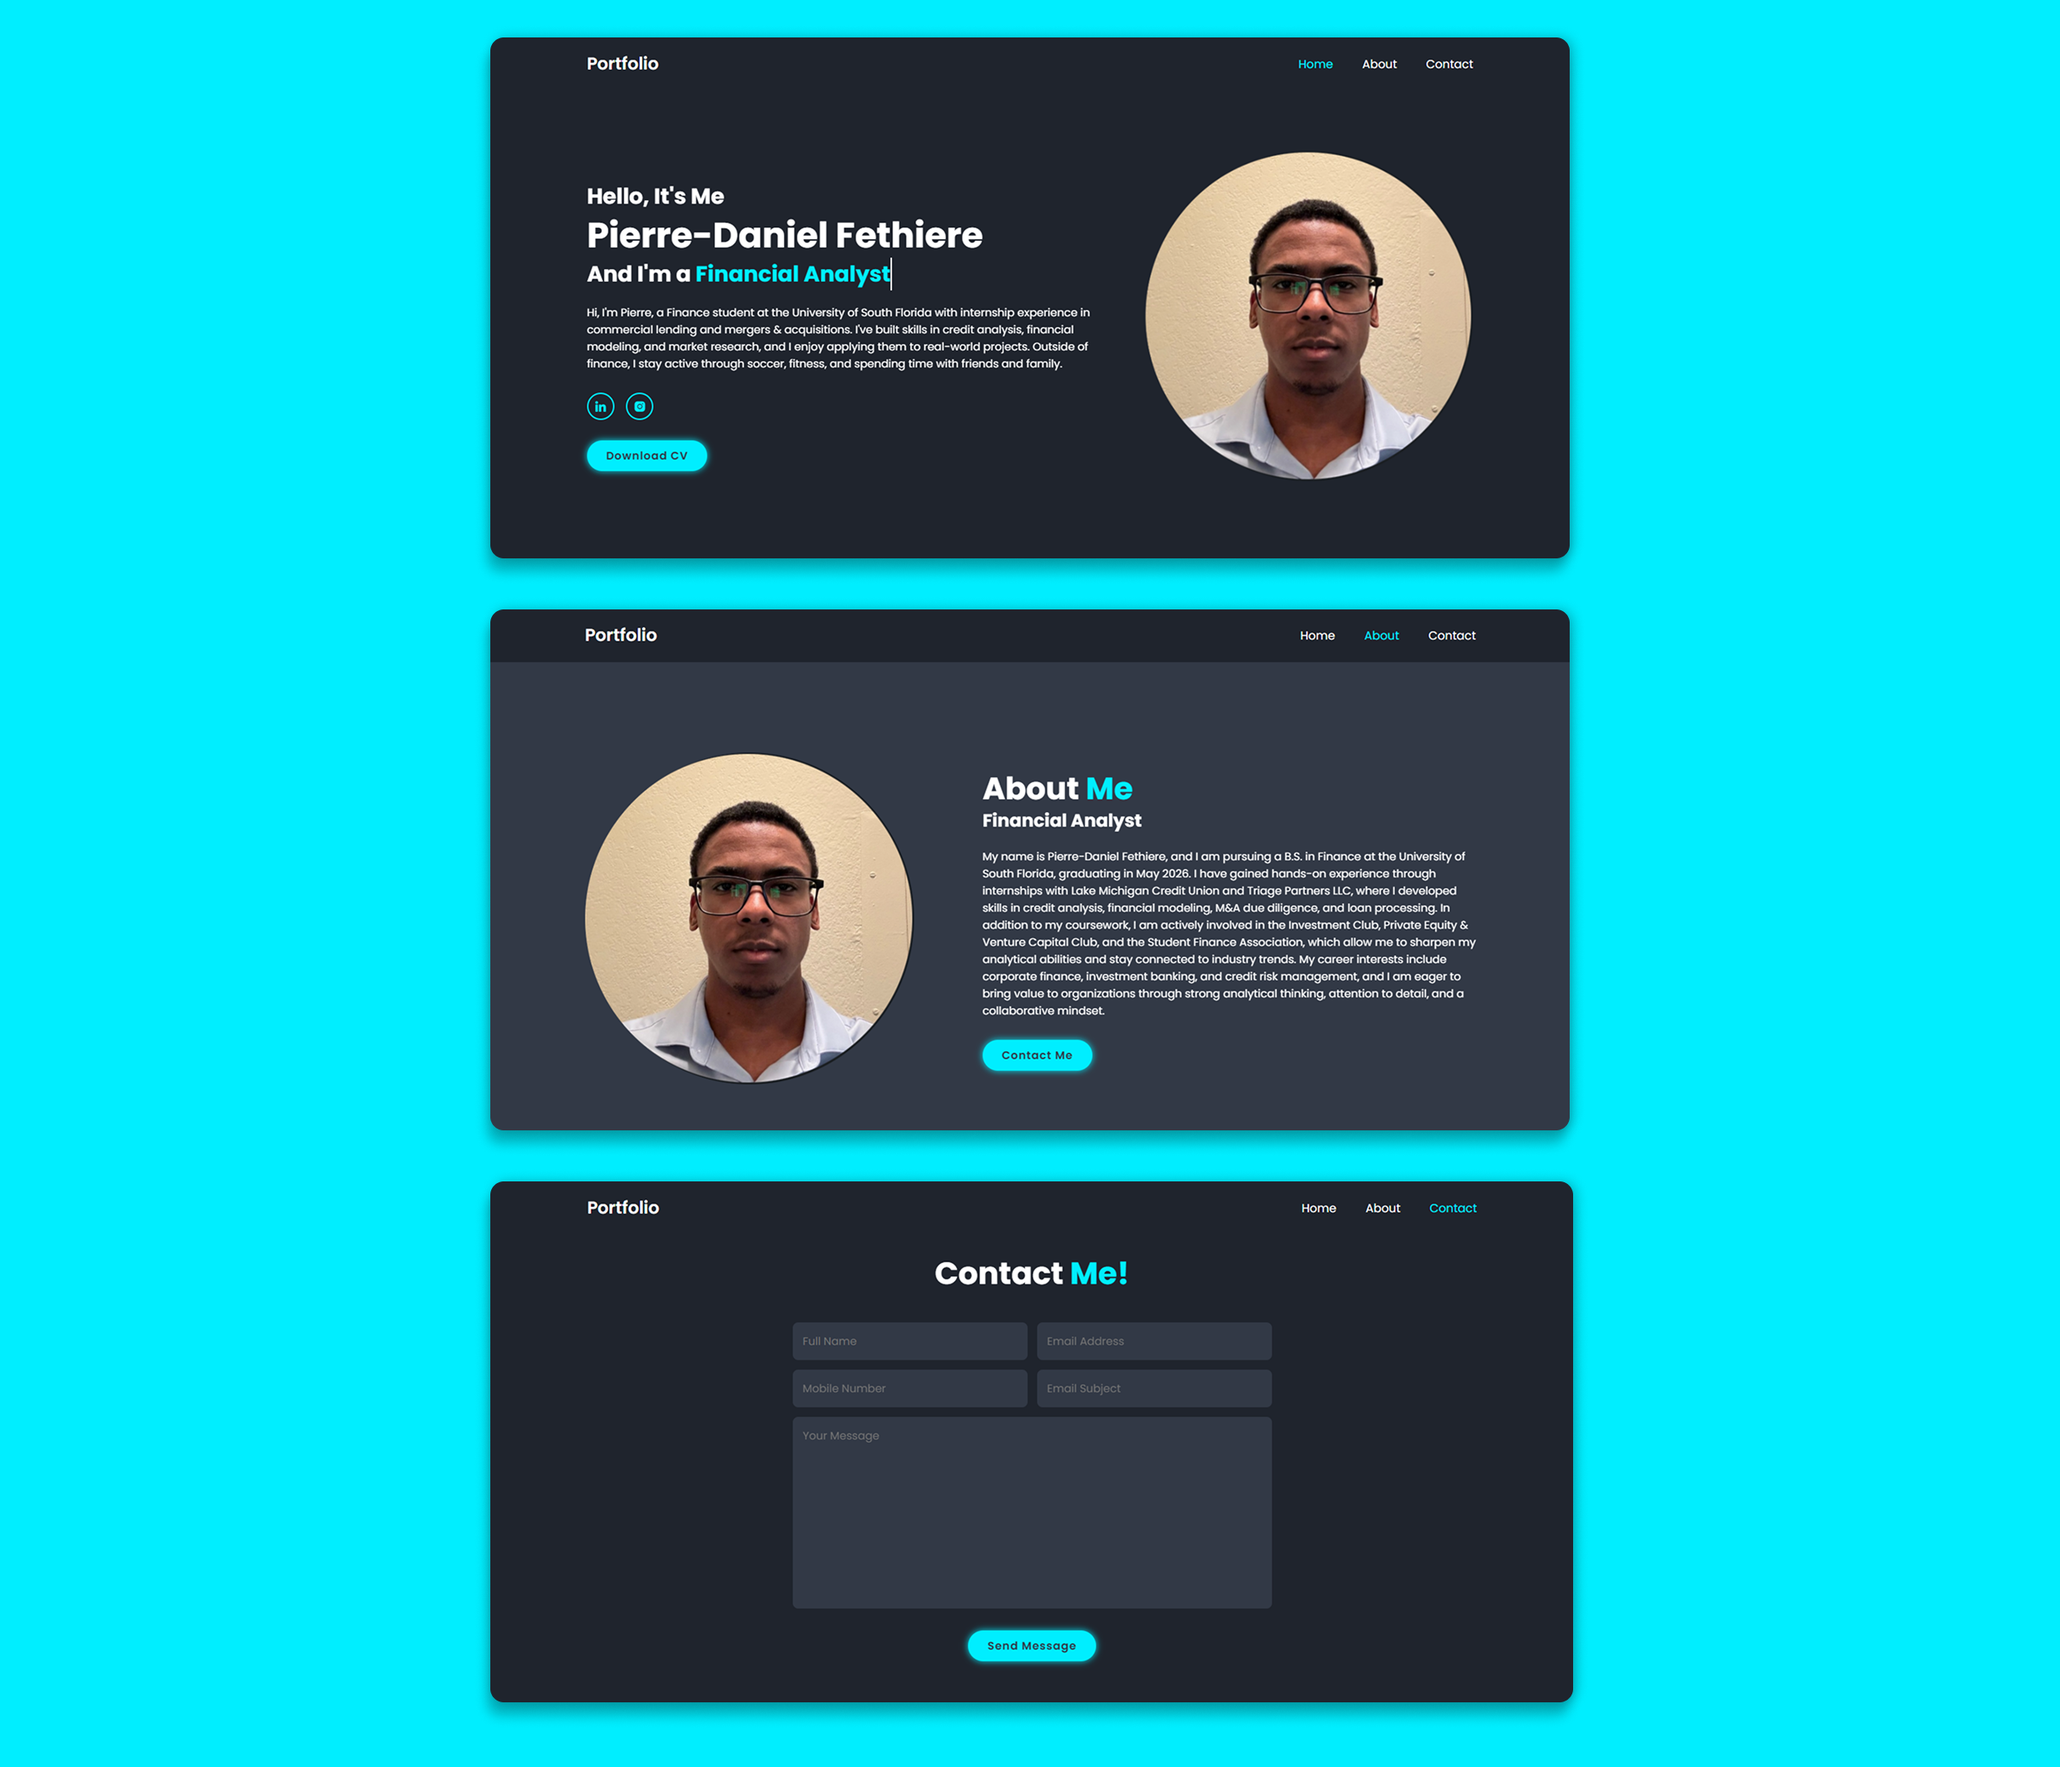
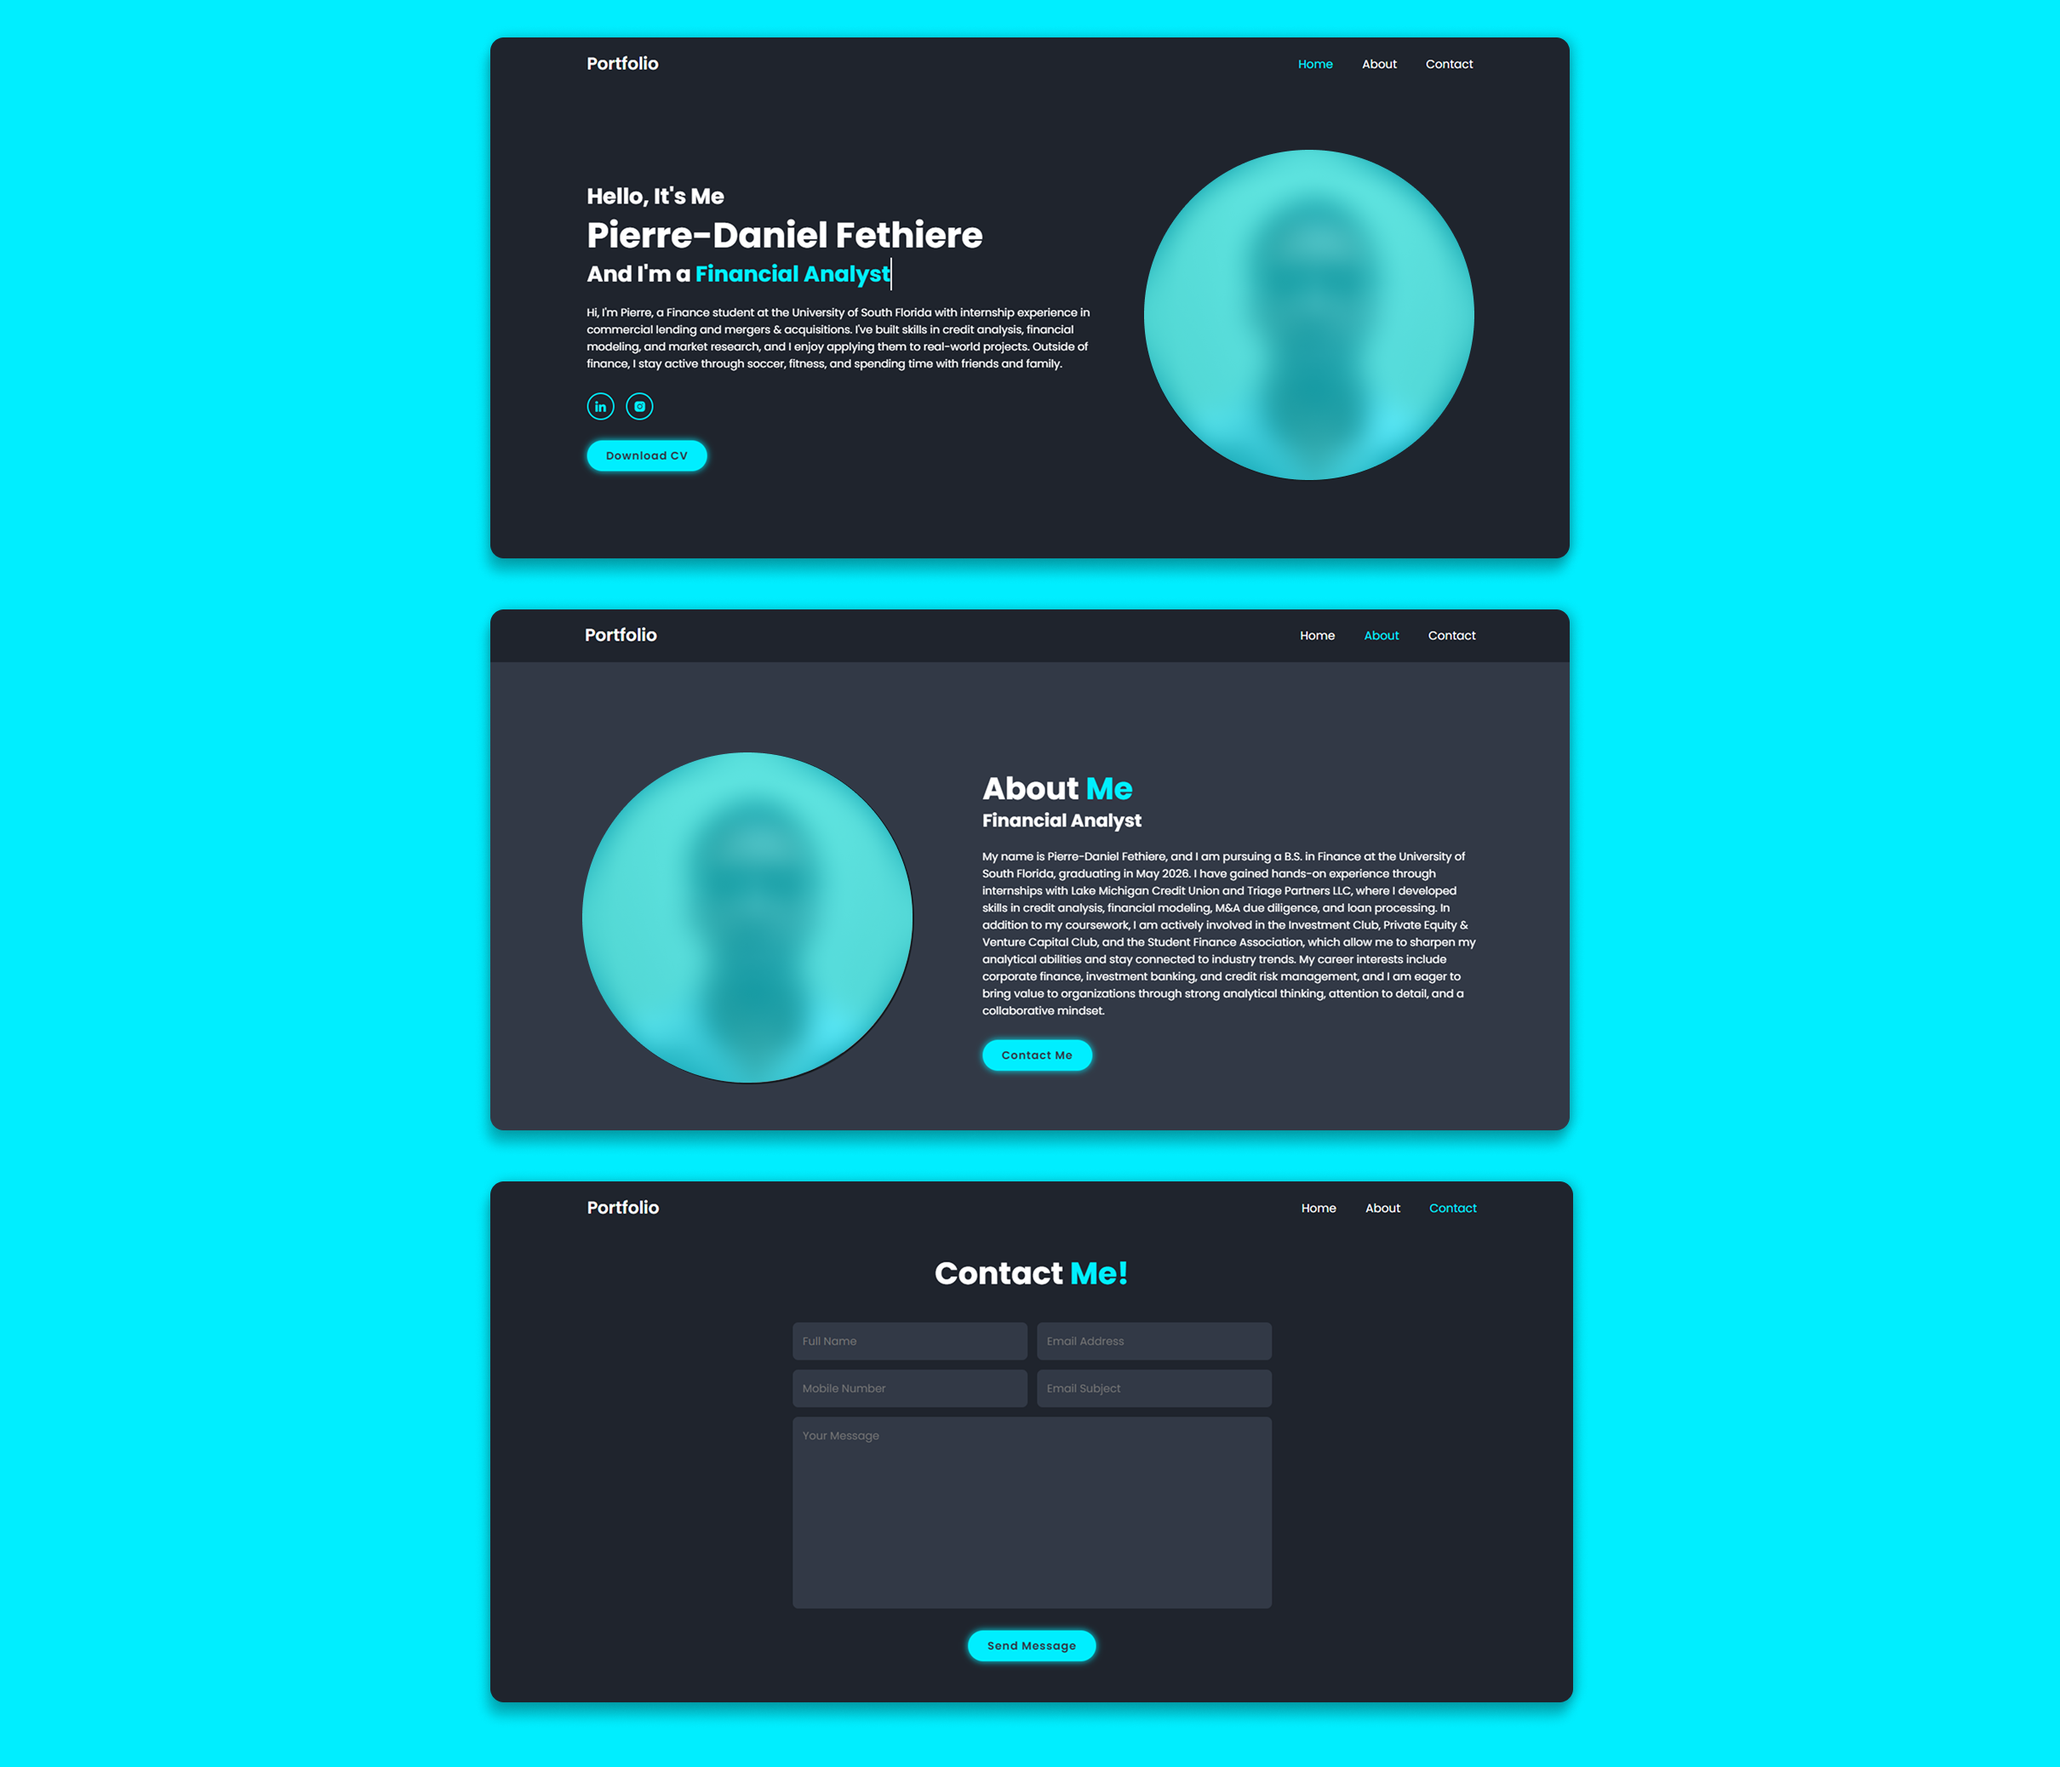
Added 2 more projects

Changed region(s): [[0.2789, 0.4008, 0.4649, 0.6166], [0.5579, 0.0617, 0.7128, 0.2775]]

diff --git a/public/data/projects.js b/public/data/projects.js
@@ -26,7 +26,15 @@ export const projects_left_column = [
         title: "Snake Game",
         bubbles: ["Java"],
         desc: "A classic snake game built in Java with Swing. Includes levels, sound effects, and increasing difficulty as the snake grows with each apple collected."
+    },
+
+    {
+        img: "assets/project-img-imp.png",
+        title: "Imposter Mobile Game",
+        bubbles: ["UI Design", "React"],
+        desc: "An imposter game designed in Figma and built with Ionic React for my Mobile Web App Development final. The imposter guesses the secret word and players vote to find the imposter, and the app was deployed using Firebase Hosting.",
     }
+
 ];
 
 export const projects_right_column = [
@@ -38,10 +46,10 @@ export const projects_right_column = [
     },
 
     {
-        img: "assets/project-img-imp.png",
-        title: "Imponexpo Design",
+        img: "assets/project-img-lin.png",
+        title: "LinkN'Lift UI Revamp",
         bubbles: ["UI Design"],
-        desc: "A Figma-based UI/UX design for Imponexpo, a B2B multivendor platform connecting global buyers and sellers."
+        desc: "A complete UI redesign for LinkN'Lift created for a Fiverr client. I revamped every page in a modern dark mode style, giving the app a cleaner, more polished, and user-friendly experience.",
     },
 
     {
@@ -56,5 +64,12 @@ export const projects_right_column = [
         title: "Vacation App",
         bubbles: ["UI Design"],
         desc: "A mobile UI/UX design freelance project for a platform where tourists can easily book activities, taxis, and vehicles for their trips."
-    }
+    },
+
+    {
+        img: "assets/project-img-impo.png",
+        title: "Imponexpo Design",
+        bubbles: ["UI Design"],
+        desc: "A Figma-based UI/UX design for Imponexpo, a B2B multivendor platform connecting global buyers and sellers."
+    },
 ];

diff --git a/public/script/script.js b/public/script/script.js
@@ -82,8 +82,8 @@ function expandBtnClicked() {
   let expandBtnText = document.getElementById("projects-see-more-txt");
 
   if(isExpanded) {
-    listProjects(projects_left_column, projects_column_lef, 4);
-    listProjects(projects_right_column, projects_column_rig, 4);
+    listProjects(projects_left_column, projects_column_lef, 5);
+    listProjects(projects_right_column, projects_column_rig, 5);
     expandBtnText.innerText = "See less";
   }
 
